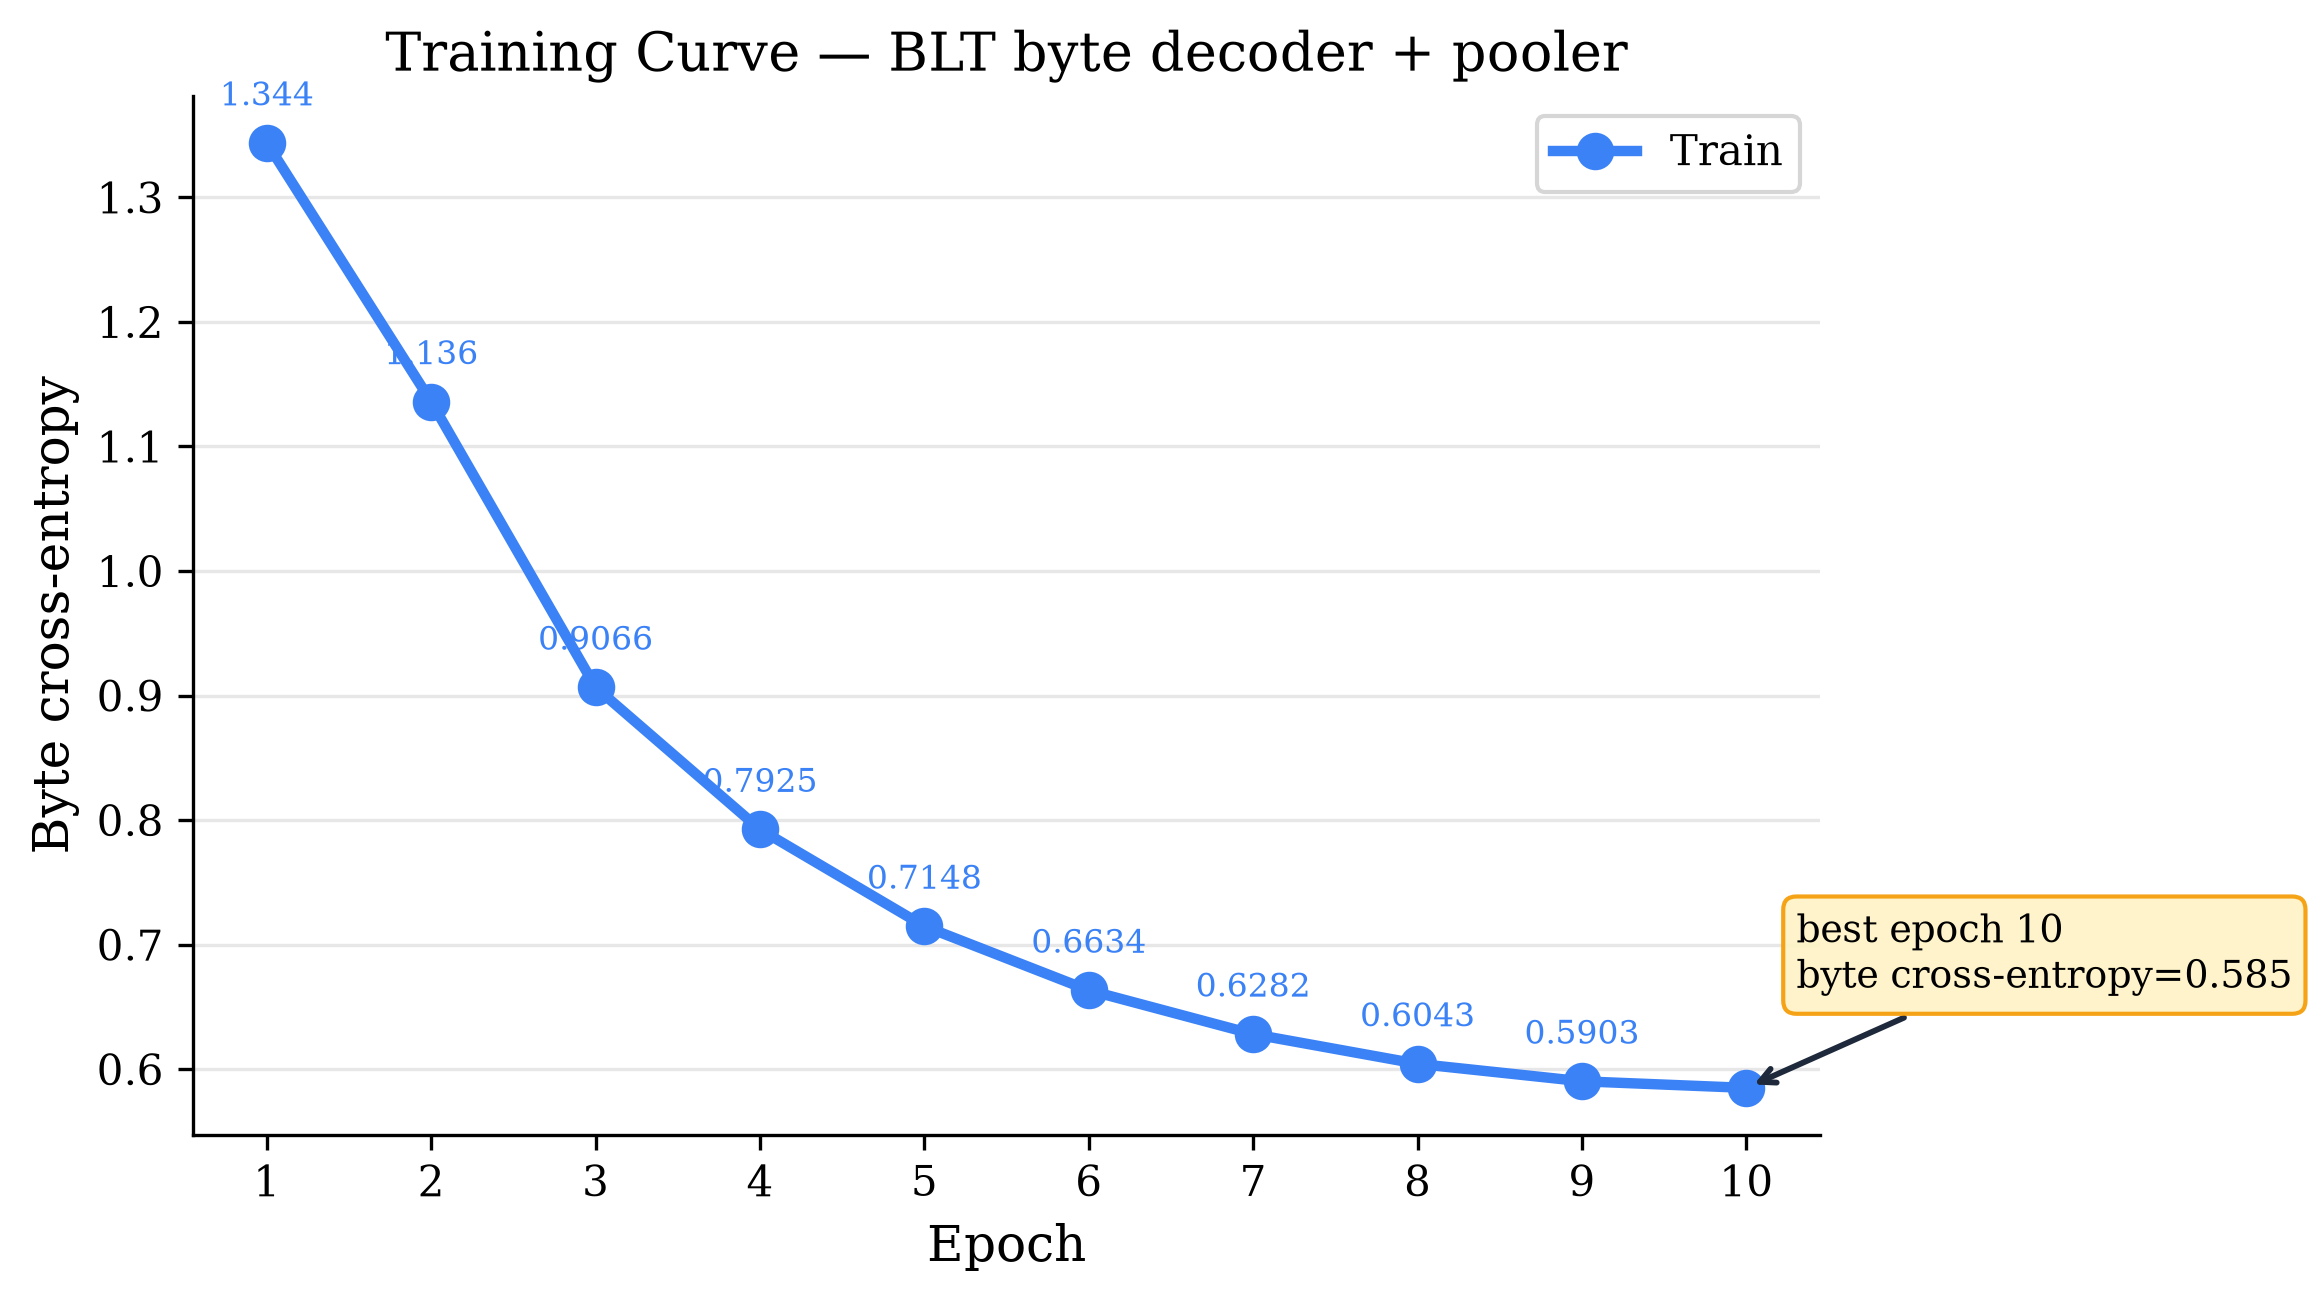
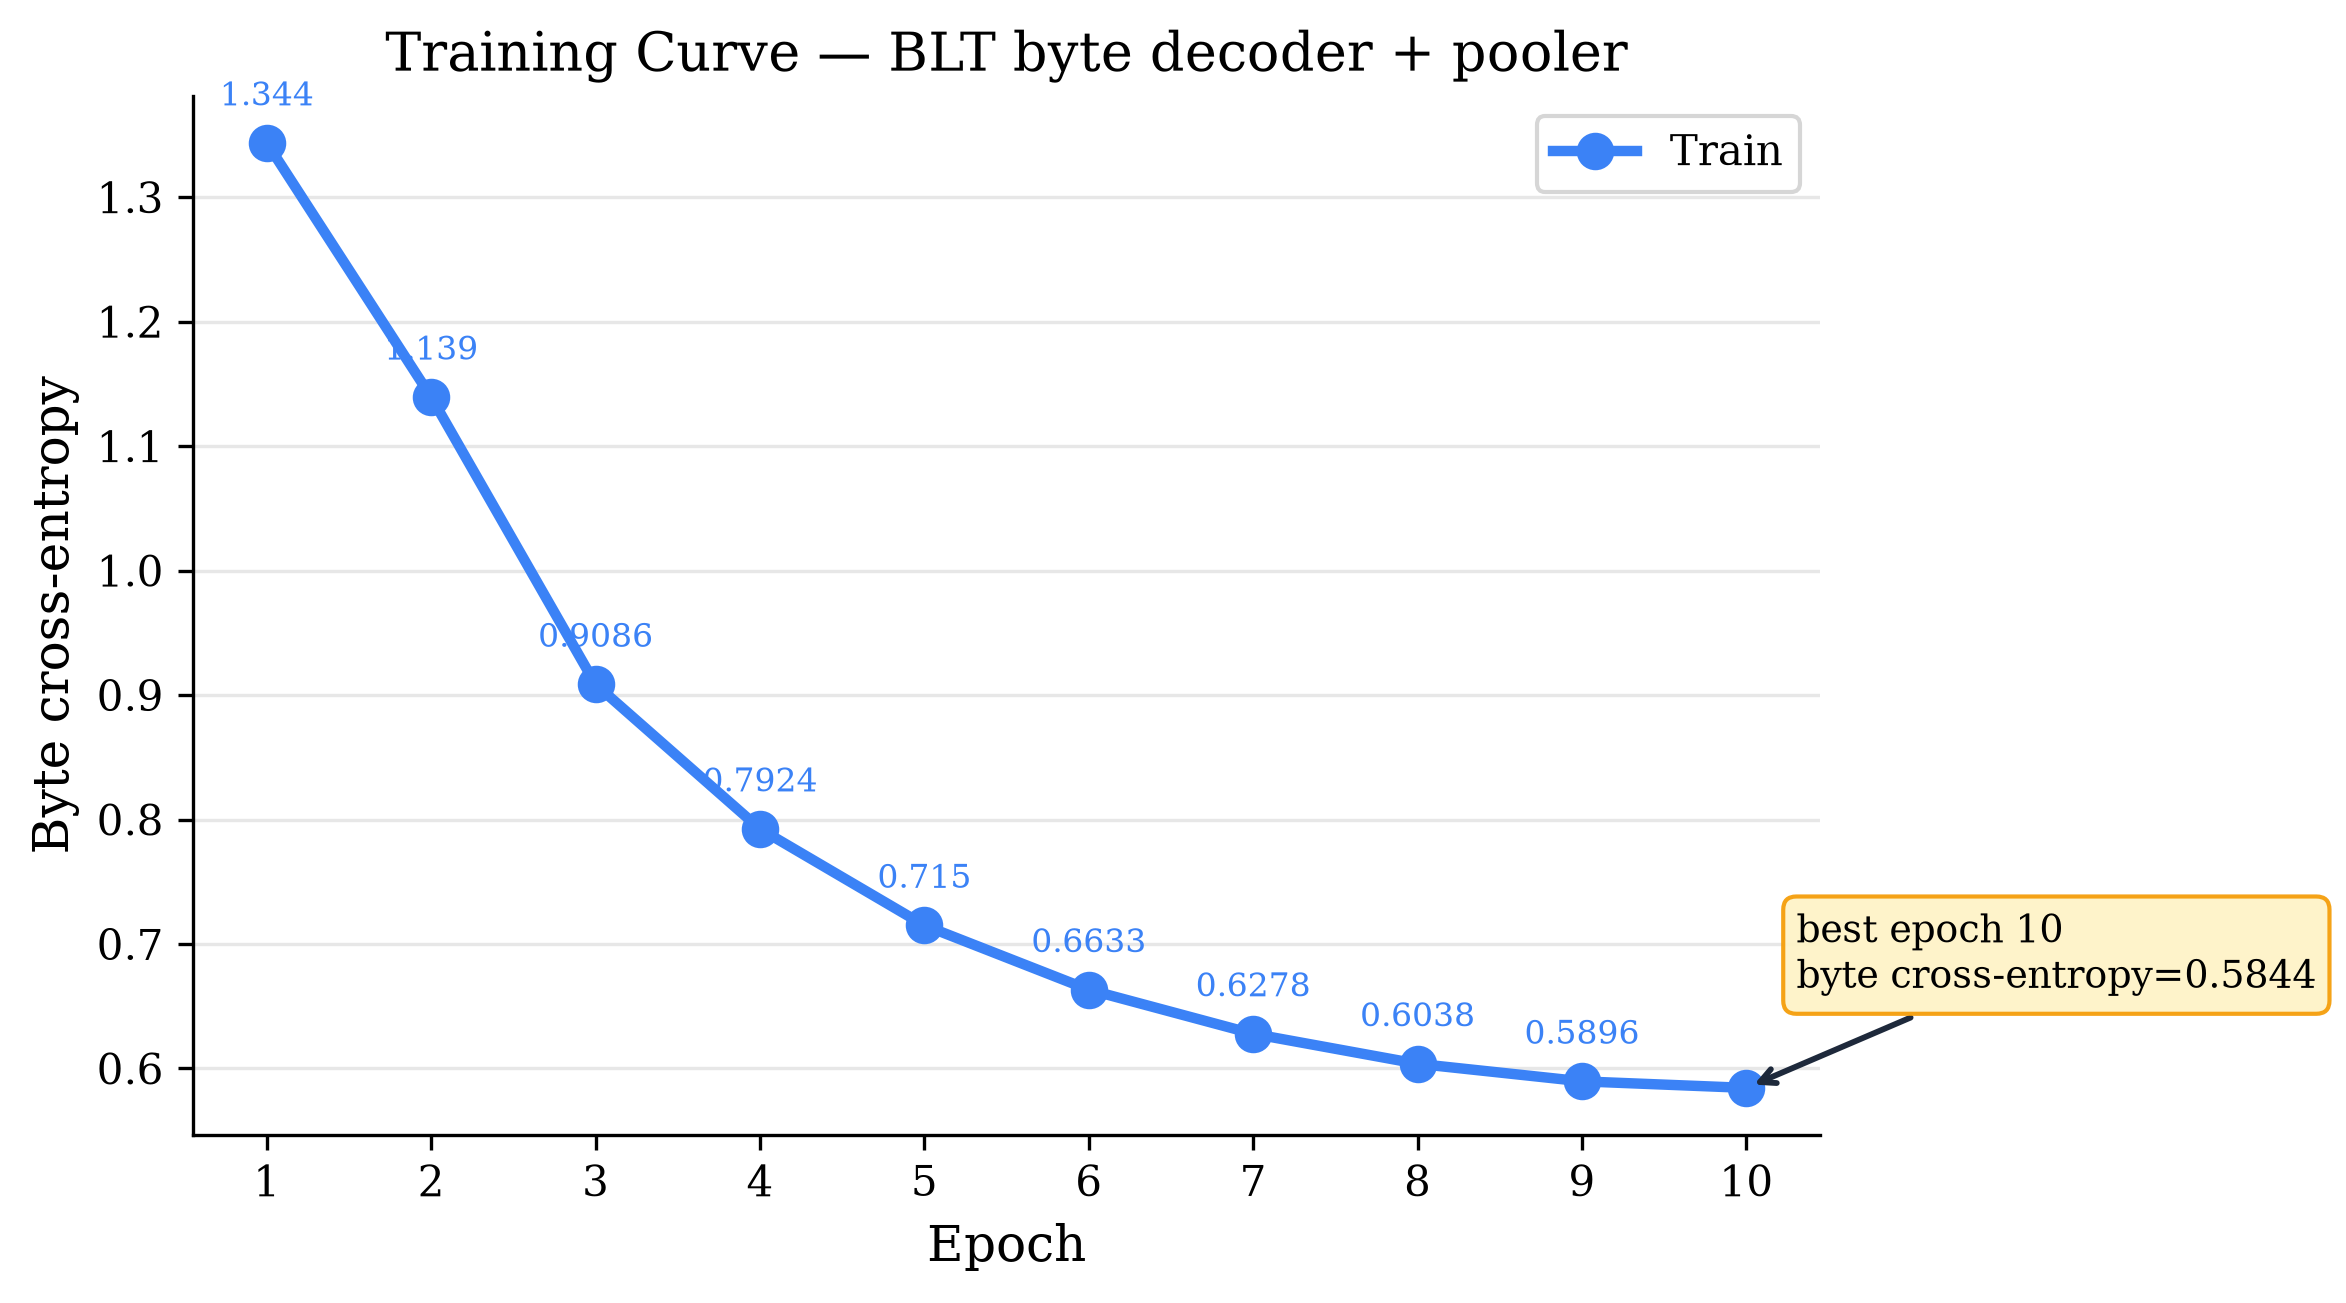
results: blt_decoder (blt_decoder.py)
best_byte_cross_entropy: 0.5843794604345244
best_epoch: 10
epochs_run: 10
byte_perplexity: 1.793877468240172

diff --git a/results/runs/blt_decoder/README.md b/results/runs/blt_decoder/README.md
@@ -1,19 +1,19 @@
 # blt_decoder
 
 * script: `blt_decoder.py`
-* finished: 2026-08-16T03:43:00Z
-* wall clock: 928.1 s
-* code: `d9c92c6` on `main` (working tree dirty)
+* finished: 2026-08-16T09:10:44Z
+* wall clock: 1005.5 s
+* code: `4d43ead` on `main` (working tree dirty)
 * device: NVIDIA RTX PRO 6000 Blackwell Server Edition
 
 ## Results
 
 | metric | value |
 | --- | --- |
-| best_byte_cross_entropy | 0.5849998848778861 |
+| best_byte_cross_entropy | 0.5843794604345244 |
 | best_epoch | 10 |
 | epochs_run | 10 |
-| byte_perplexity | 1.7949907789967554 |
+| byte_perplexity | 1.793877468240172 |
 
 ## Run info
 
@@ -29,7 +29,7 @@
 | min_delta | 0.0 |
 | min_epochs | 1 |
 | epochs_observed | 10 |
-| best | 0.5849998848778861 |
+| best | 0.5843794604345244 |
 | best_epoch | 10 |
 | epochs_since_improvement | 0 |
 | stop_reason | reached the --epochs cap of 10 |
